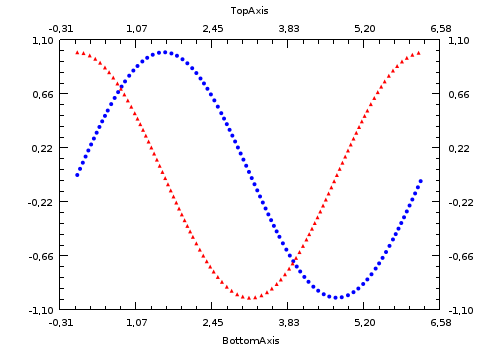
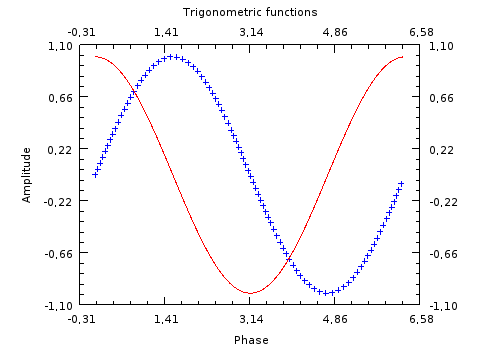
Update boundaries

diff --git a/slope/xyaxis.c b/slope/xyaxis.c
@@ -22,6 +22,7 @@
 #include <stdlib.h>
 #include <string.h>
 #include <stdio.h>
+#include <math.h>
 
 
 slope_data_class_t* __slope_xyaxis_get_class()
@@ -218,7 +219,8 @@ void __slope_xyaxis_draw_left (slope_data_t *data, cairo_t *cr,
     double y = xymetr->ymax_scene;
     double coord = xymetr->ymin;
     char label[32];
-
+    double max_txt_wid = 0.0;
+    
     cairo_move_to(cr, x, y);
     cairo_line_to(cr, x, y-axis->length);
 
@@ -229,6 +231,7 @@ void __slope_xyaxis_draw_left (slope_data_t *data, cairo_t *cr,
             sprintf(label, "%2.2lf", coord);
             cairo_text_extents_t txt_ext;
             cairo_text_extents(cr, label, &txt_ext);
+            if (txt_ext.width > max_txt_wid) max_txt_wid = txt_ext.width;
             cairo_line_to(cr, x+8.0, y);
             cairo_move_to(
                 cr, x-txt_ext.width-txt_ext.height, y+0.5*txt_ext.height);
@@ -240,6 +243,16 @@ void __slope_xyaxis_draw_left (slope_data_t *data, cairo_t *cr,
         coord += axis->divlen;
         y = slope_xymetrics_map_y(metrics, coord);
     }
+    cairo_save(cr);
+    cairo_rotate(cr, -M_PI/2.0);
+    sprintf(label, "%2.2lf", data->name);
+    cairo_text_extents_t txt_ext;
+    cairo_text_extents(cr, data->name, &txt_ext);
+    x = - xymetr->ymin_scene - (xymetr->height_scene + txt_ext.width)/2.0;
+    y = xymetr->xmin_scene - max_txt_wid - 2.0*txt_ext.height;
+    cairo_move_to(cr, x, y);
+    cairo_show_text(cr, data->name);
+    cairo_restore(cr);
     cairo_stroke(cr);
 }
 
@@ -254,6 +267,7 @@ void __slope_xyaxis_draw_right (slope_data_t *data, cairo_t *cr,
     double y = xymetr->ymax_scene;
     double coord = xymetr->ymin;
     char label[32];
+    double max_txt_wid = 0.0;
 
     cairo_move_to(cr, x, y);
     cairo_line_to(cr, x, y-axis->length);
@@ -265,6 +279,7 @@ void __slope_xyaxis_draw_right (slope_data_t *data, cairo_t *cr,
             sprintf(label, "%2.2lf", coord);
             cairo_text_extents_t txt_ext;
             cairo_text_extents(cr, label, &txt_ext);
+            if (txt_ext.width > max_txt_wid) max_txt_wid = txt_ext.width;
             cairo_line_to(cr, x-8.0, y);
             cairo_move_to(cr, x+txt_ext.height, y+0.5*txt_ext.height);
             cairo_show_text(cr, label);
@@ -275,6 +290,16 @@ void __slope_xyaxis_draw_right (slope_data_t *data, cairo_t *cr,
         coord += axis->divlen;
         y = slope_xymetrics_map_y(metrics, coord);
     }
+    cairo_save(cr);
+    cairo_rotate(cr, -M_PI/2.0);
+    sprintf(label, "%2.2lf", data->name);
+    cairo_text_extents_t txt_ext;
+    cairo_text_extents(cr, data->name, &txt_ext);
+    x = - xymetr->ymin_scene - (xymetr->height_scene + txt_ext.width)/2.0;
+    y = xymetr->xmax_scene + max_txt_wid + 2.6*txt_ext.height;
+    cairo_move_to(cr, x, y);
+    cairo_show_text(cr, data->name);
+    cairo_restore(cr);
     cairo_stroke(cr);
 }
 

diff --git a/slope/xydata.c b/slope/xydata.c
@@ -22,9 +22,9 @@
 #include <stdlib.h>
 #include <string.h>
 
-#define SYMBRAD 2.0
-#define SYMBRADSQR 4.0
-#define THREESYMBRADSQR 36.0
+#define SYMBRAD 3.0
+#define SYMBRADSQR 9.0
+#define TWOSYMBRADSQR 36.0
 
 
 slope_data_class_t* __slope_xydata_get_class()
@@ -45,8 +45,8 @@ slope_data_class_t* __slope_xydata_get_class()
 void __slope_xydata_init (slope_data_t *parent)
 {
     slope_xydata_t *self = (slope_xydata_t*) parent;
-    self->antialias = SLOPE_TRUE;
-    self->line_width = 1.5;
+    self->antialias = SLOPE_FALSE;
+    self->line_width = 1.0;
     self->fill_symbol = SLOPE_TRUE;
     self->rescalable = SLOPE_TRUE;
     parent->name = NULL;
@@ -227,7 +227,7 @@ void __slope_xydata_draw_circles (slope_data_t *data, cairo_t *cr,
         double dy = y2 - y1;
         double distsqr = dx*dx + dy*dy;
 
-        if (distsqr >= THREESYMBRADSQR) {
+        if (distsqr >= TWOSYMBRADSQR) {
             cairo_move_to(cr, x2+SYMBRAD, y2);
             cairo_arc(cr, x2, y2, SYMBRAD, 0.0, 6.283185);
             if (self->fill_symbol) cairo_fill(cr);
@@ -265,7 +265,7 @@ void __slope_xydata_draw_triangles (slope_data_t *data, cairo_t *cr,
         double dy = y2 - y1;
         double distsqr = dx*dx + dy*dy;
 
-        if (distsqr >= THREESYMBRADSQR) {
+        if (distsqr >= TWOSYMBRADSQR) {
             cairo_move_to(cr, x2-SYMBRAD, y2+SYMBRAD);
             cairo_line_to(cr, x2+SYMBRAD, y2+SYMBRAD);
             cairo_line_to(cr, x2, y2-SYMBRAD);
@@ -301,7 +301,6 @@ void __slope_xydata_draw_plusses (slope_data_t *data, cairo_t *cr,
     cairo_line_to(cr, x1+SYMBRAD, y1);
     cairo_move_to(cr, x1, y1-SYMBRAD);
     cairo_line_to(cr, x1, y1+SYMBRAD);
-    
     int k;
     for (k=1; k<n; k++) {
         double x2 = slope_xymetrics_map_x(metrics, vx[k]);
@@ -311,7 +310,7 @@ void __slope_xydata_draw_plusses (slope_data_t *data, cairo_t *cr,
         double dy = y2 - y1;
         double distsqr = dx*dx + dy*dy;
         
-        if (distsqr >= THREESYMBRADSQR) {
+        if (distsqr >= TWOSYMBRADSQR) {
             cairo_move_to(cr, x1-SYMBRAD, y1);
             cairo_line_to(cr, x1+SYMBRAD, y1);
             cairo_move_to(cr, x1, y1-SYMBRAD);

diff --git a/test.c b/test.c
@@ -38,18 +38,30 @@ int main(int argc, char *argv[])
     slope_data_t *sin_data =
         slope_xydata_create_simple(
             x, y1, N, "Sine",
-            SLOPE_BLUE, SLOPE_CIRCLES);
+            SLOPE_BLUE, SLOPE_PLUSSES);
 
     slope_data_t *cos_data =
         slope_xydata_create_simple(
             x, y2, N, "Cossine",
-            SLOPE_RED, SLOPE_TRIANGLES);
+            SLOPE_RED, SLOPE_LINE);
 
     /* put the data objectsin a metrics and the metrics in a scene */
     slope_metrics_t *metrics = slope_xymetrics_create();
     slope_metrics_add_data(metrics, sin_data);
     slope_metrics_add_data(metrics, cos_data);
-
+    
+    /* set axis labels */
+    slope_data_t *axis;
+    axis = slope_xymetrics_get_axis(metrics, SLOPE_XYAXIS_TOP);
+    slope_data_set_name(axis, "Trigonometric functions");
+    axis = slope_xymetrics_get_axis(metrics, SLOPE_XYAXIS_BOTTOM);
+    slope_data_set_name(axis, "Phase");
+    axis = slope_xymetrics_get_axis(metrics, SLOPE_XYAXIS_LEFT);
+    slope_data_set_name(axis, "Amplitude");
+    axis = slope_xymetrics_get_axis(metrics, SLOPE_XYAXIS_RIGHT);
+    slope_data_set_name(axis, ""); /* no label */
+    
+    /* create the where everything will be drawn */
     slope_scene_t *scene = slope_scene_create();
     slope_scene_add_metrics(scene, metrics);
 

diff --git a/slope/data.c b/slope/data.c
@@ -20,6 +20,7 @@
 #include "slope/data_p.h"
 #include "slope/metrics.h"
 #include <stdlib.h>
+#include <string.h>
 
 
 void slope_data_destroy (slope_data_t *data)
@@ -56,6 +57,27 @@ void slope_data_set_visible (slope_data_t *data,
     if (data->appearence_change_callback) {
         (*data->appearence_change_callback)(data);
     }
+}
+
+
+const char* slope_data_get_name (slope_data_t *data)
+{
+    if (data == NULL) {
+        return NULL;
+    }
+    return data->name;
+}
+
+
+void slope_data_set_name (slope_data_t *data, const char *name)
+{
+    if (data == NULL) {
+        return;
+    }
+    if (data->name) {
+        free(data->name);
+    }
+    data->name = strdup(name);
 }
 
 

diff --git a/slope/xymetrics.c b/slope/xymetrics.c
@@ -50,8 +50,8 @@ slope_metrics_t* slope_xymetrics_create()
     metrics->data_list = NULL;
     metrics->scene = NULL;
 
-    self->x_low_bound = self->x_up_bound = 60.0;
-    self->y_low_bound = self->y_up_bound = 40.0;
+    self->x_low_bound = self->x_up_bound = 80.0;
+    self->y_low_bound = self->y_up_bound = 45.0;
 
     self->axis_list = NULL;
     slope_data_t *axis = slope_xyaxis_create(

diff --git a/slope/scene.c b/slope/scene.c
@@ -70,6 +70,9 @@ void slope_scene_draw (slope_scene_t *scene, cairo_t *cr,
 {
     cairo_stroke(cr);
     cairo_save(cr);
+    cairo_select_font_face(
+        cr, "Sans", CAIRO_FONT_SLANT_NORMAL, CAIRO_FONT_WEIGHT_NORMAL);
+    cairo_set_font_size(cr, 11);
     slope_cairo_rectangle(cr, rect);
     cairo_clip(cr);
     /* fill background */

diff --git a/slope/data.h b/slope/data.h
@@ -53,6 +53,16 @@ slope_data_set_visible (slope_data_t *data, int visible);
 
 /**
  */
+slope_public const char*
+slope_data_get_name (slope_data_t *data);
+
+/**
+ */
+slope_public void
+slope_data_set_name (slope_data_t *data, const char *name);
+
+/**
+ */
 slope_public slope_metrics_t*
 slope_data_get_metrics (slope_data_t *data);
 
